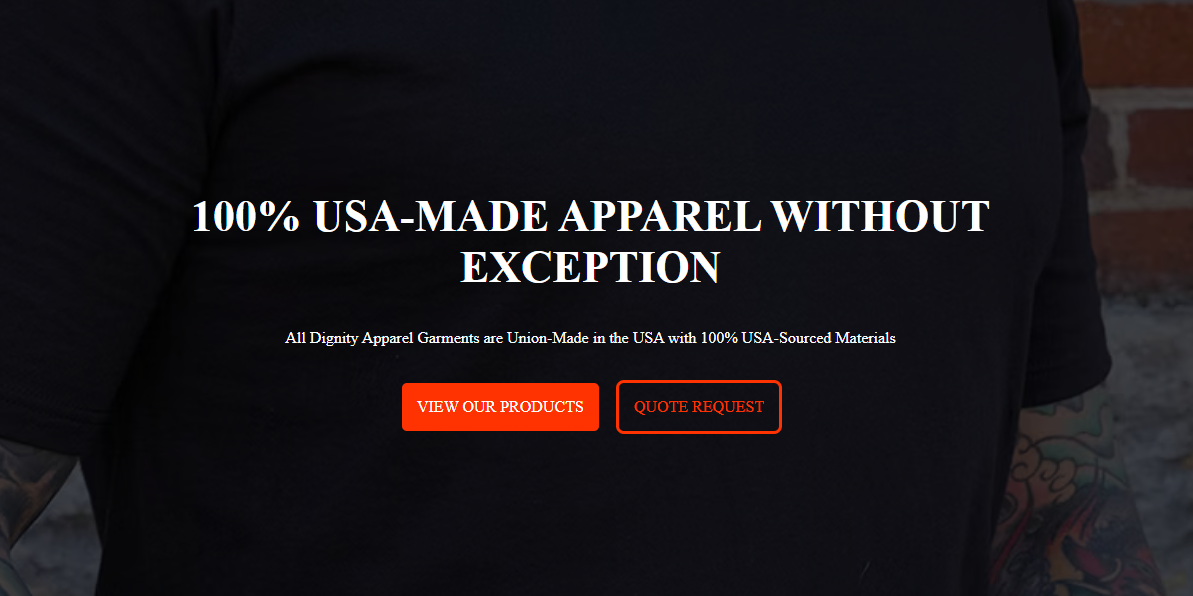
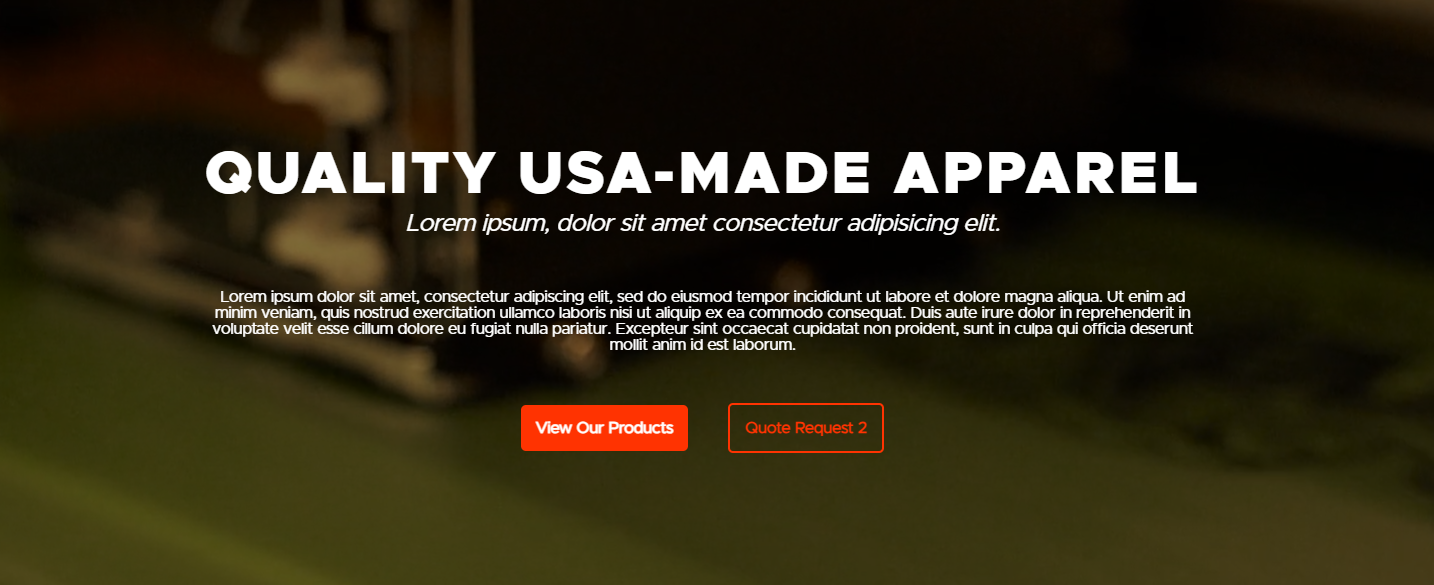
Update hero section

diff --git a/src/components/Hero/Hero.tsx b/src/components/Hero/Hero.tsx
@@ -8,34 +8,71 @@ import styles from "@/styles/Hero/Hero.module.css";
 type Props = {
   heading: string;
   subtextNode: ReactNode;
+  body?: ReactNode;
   buttonPrimary: LinkAsButtonData;
   buttonSecondary?: LinkAsButtonData;
   bgImageUrl?: string;
   bgVideoUrl?: string;
   alignment: "left" | "right" | "center";
+  overlayNormalized?: number;
+  heightOverride?: number;
 };
 export function Hero({
   bgImageUrl,
   heading,
   subtextNode,
+  body,
   buttonPrimary,
   buttonSecondary,
+  alignment,
+  bgVideoUrl,
+  overlayNormalized,
+  heightOverride,
 }: Props) {
+  const alignmentClassName =
+    alignment === "left"
+      ? styles["align-left"]
+      : alignment === "right"
+        ? styles["align-right"]
+        : "";
+
   return (
     <section
-      className={styles["main"]}
+      className={styles["section"]}
       style={{
-        backgroundImage: bgImageUrl
-          ? `linear-gradient(rgba(0,0,0,0.7), rgba(0,0,0,0.7)), url(${bgImageUrl})`
-          : undefined,
+        backgroundImage:
+          bgImageUrl && !bgVideoUrl
+            ? `linear-gradient(rgba(0,0,0,0.7), rgba(0,0,0,0.7)), url(${bgImageUrl})`
+            : undefined,
+        height: heightOverride ? `${heightOverride}px` : undefined,
       }}
     >
-      <div className={styles["content"]}>
-        <h1>{heading}</h1>
-        {subtextNode}
-        <div className={styles["buttons-container"]}>
-          <LinkAsButton data={buttonPrimary} />
-          {buttonSecondary && <LinkAsButton data={buttonSecondary} />}
+      {bgVideoUrl && (
+        <div className={styles["video-container"]}>
+          <video autoPlay loop playsInline muted>
+            <source src={bgVideoUrl} />
+          </video>
+        </div>
+      )}
+      <div
+        className={`${styles["main"]} ${alignmentClassName} x-wide-container`}
+      >
+        <div
+          className={styles["dark-overlay"]}
+          style={{ backgroundColor: `rgba(0, 0, 0, ${overlayNormalized})` }}
+        ></div>
+        <div className={styles["content"]}>
+          <div>
+            <h1 className="h1-black">{heading}</h1>
+            <div className={styles["subtext-container"]}>{subtextNode}</div>
+          </div>
+          {body}
+          <div className={styles["buttons-container"]}>
+            <LinkAsButton data={buttonPrimary} />
+            {buttonSecondary && alignment === "center" && (
+              <LinkAsButton data={buttonSecondary} />
+            )}
+          </div>
         </div>
       </div>
     </section>

diff --git a/prismicio-types.d.ts b/prismicio-types.d.ts
@@ -1199,6 +1199,16 @@ export interface HeroSliceDefaultPrimary {
   subtext: prismic.RichTextField;
 
   /**
+   * Body field in *Hero → Default → Primary*
+   *
+   * - **Field Type**: Rich Text
+   * - **Placeholder**: *None*
+   * - **API ID Path**: hero.default.primary.body
+   * - **Documentation**: https://prismic.io/docs/field#rich-text-title
+   */
+  body: prismic.RichTextField;
+
+  /**
    * Background Image field in *Hero → Default → Primary*
    *
    * - **Field Type**: Image
@@ -1207,6 +1217,48 @@ export interface HeroSliceDefaultPrimary {
    * - **Documentation**: https://prismic.io/docs/field#image
    */
   background_image: prismic.ImageField<never>;
+
+  /**
+   * Background Video URL field in *Hero → Default → Primary*
+   *
+   * - **Field Type**: Text
+   * - **Placeholder**: If provided, this will replace the background image.
+   * - **API ID Path**: hero.default.primary.background_video_url
+   * - **Documentation**: https://prismic.io/docs/field#key-text
+   */
+  background_video_url: prismic.KeyTextField;
+
+  /**
+   * Background Overlay Opacity field in *Hero → Default → Primary*
+   *
+   * - **Field Type**: Select
+   * - **Placeholder**: *None*
+   * - **Default Value**: 50%
+   * - **API ID Path**: hero.default.primary.background_overlay_opacity
+   * - **Documentation**: https://prismic.io/docs/field#select
+   */
+  background_overlay_opacity: prismic.SelectField<"50%" | "95%", "filled">;
+
+  /**
+   * Layout field in *Hero → Default → Primary*
+   *
+   * - **Field Type**: Select
+   * - **Placeholder**: *None*
+   * - **Default Value**: Centered
+   * - **API ID Path**: hero.default.primary.layout
+   * - **Documentation**: https://prismic.io/docs/field#select
+   */
+  layout: prismic.SelectField<"Centered" | "Left" | "Right", "filled">;
+
+  /**
+   * Section Height field in *Hero → Default → Primary*
+   *
+   * - **Field Type**: Number
+   * - **Placeholder**: Height in px (leave blank to use default)
+   * - **API ID Path**: hero.default.primary.section_height
+   * - **Documentation**: https://prismic.io/docs/field#number
+   */
+  section_height: prismic.NumberField;
 
   /**
    * Buttons field in *Hero → Default → Primary*

diff --git a/src/styles/Hero/Hero.module.css b/src/styles/Hero/Hero.module.css
@@ -1,14 +1,65 @@
-.main {
+.section {
+  height: 800px;
+  background-position: center;
+  background-size: cover;
   background-color: black;
+  position: relative;
+  display: flex;
+  align-items: center;
+}
+
+.main {
   display: flex;
   align-items: center;
   justify-content: center;
-  width: 100%;
-  height: 800px;
   color: white;
   padding: 0 10px 0 10px;
-  background-position: center;
-  background-size: cover;
+}
+
+.main.align-left {
+  justify-content: flex-start;
+  padding-left: 40px;
+}
+
+.main.align-right {
+  justify-content: flex-end;
+  padding-right: 40px;
+}
+
+.main.align-left .content,
+.main.align-right .content {
+  text-align: left;
+  align-items: flex-start;
+  max-width: 600px;
+}
+
+.main h1,
+.main h2,
+.main h3,
+.main h4,
+.main p {
+  margin: 0;
+}
+
+.video-container {
+  position: absolute;
+  inset: 0;
+  overflow: hidden;
+}
+
+.video-container video {
+  min-width: 100%;
+  min-height: 100%;
+}
+
+.dark-overlay {
+  position: absolute;
+  inset: 0;
+}
+
+.subtext-container {
+  margin-top: 5px;
+  font-style: italic;
 }
 
 .content {
@@ -16,20 +67,33 @@
   text-align: center;
   display: flex;
   flex-direction: column;
-  gap: 20px;
+  gap: 50px;
   align-items: center;
-}
-
-.content h1 {
-  margin: 0;
-  font-size: 2.75rem;
-  text-transform: uppercase;
+  position: relative;
 }
 
 .buttons-container {
   display: flex;
   justify-content: center;
   align-items: center;
-  gap: 20px;
+  gap: 40px;
   flex-wrap: wrap;
+}
+
+@media screen and (max-width: 768px) {
+  .main.align-left {
+    justify-content: center;
+    padding: 0 10px 0 10px;
+  }
+
+  .main.align-right {
+    justify-content: center;
+  }
+
+  .main.align-left .content,
+  .main.align-right .content {
+    text-align: center;
+    align-items: center;
+    max-width: 100%;
+  }
 }

diff --git a/src/slices/Hero/index.tsx b/src/slices/Hero/index.tsx
@@ -12,7 +12,17 @@ export type HeroProps = SliceComponentProps<Content.HeroSlice>;
  * Component for "Hero" Slices.
  */
 const Hero = async ({ slice }: HeroProps): Promise<JSX.Element> => {
-  const { background_image, buttons, heading, subtext } = slice.primary;
+  const {
+    background_image,
+    buttons,
+    heading,
+    subtext,
+    body,
+    background_video_url,
+    layout,
+    background_overlay_opacity,
+    section_height,
+  } = slice.primary;
   const buttonPrimary = await convertButton({
     button_style: buttons[0]?.button_style,
     link: buttons[0]?.link,
@@ -26,12 +36,24 @@ const Hero = async ({ slice }: HeroProps): Promise<JSX.Element> => {
 
   return (
     <HeroComponent
-      alignment={"center"}
+      alignment={
+        layout === "Left" ? "left" : layout === "Centered" ? "center" : "right"
+      }
       heading={`${heading}`}
       buttonPrimary={buttonPrimary}
       buttonSecondary={buttonSecondary}
       subtextNode={<PrismicRichText field={subtext} />}
+      body={<PrismicRichText field={body} />}
       bgImageUrl={background_image.url || ""}
+      bgVideoUrl={background_video_url || undefined}
+      overlayNormalized={
+        background_overlay_opacity === "50%"
+          ? 0.5
+          : background_overlay_opacity === "95%"
+            ? 0.95
+            : 0
+      }
+      heightOverride={section_height || undefined}
     />
   );
 };
